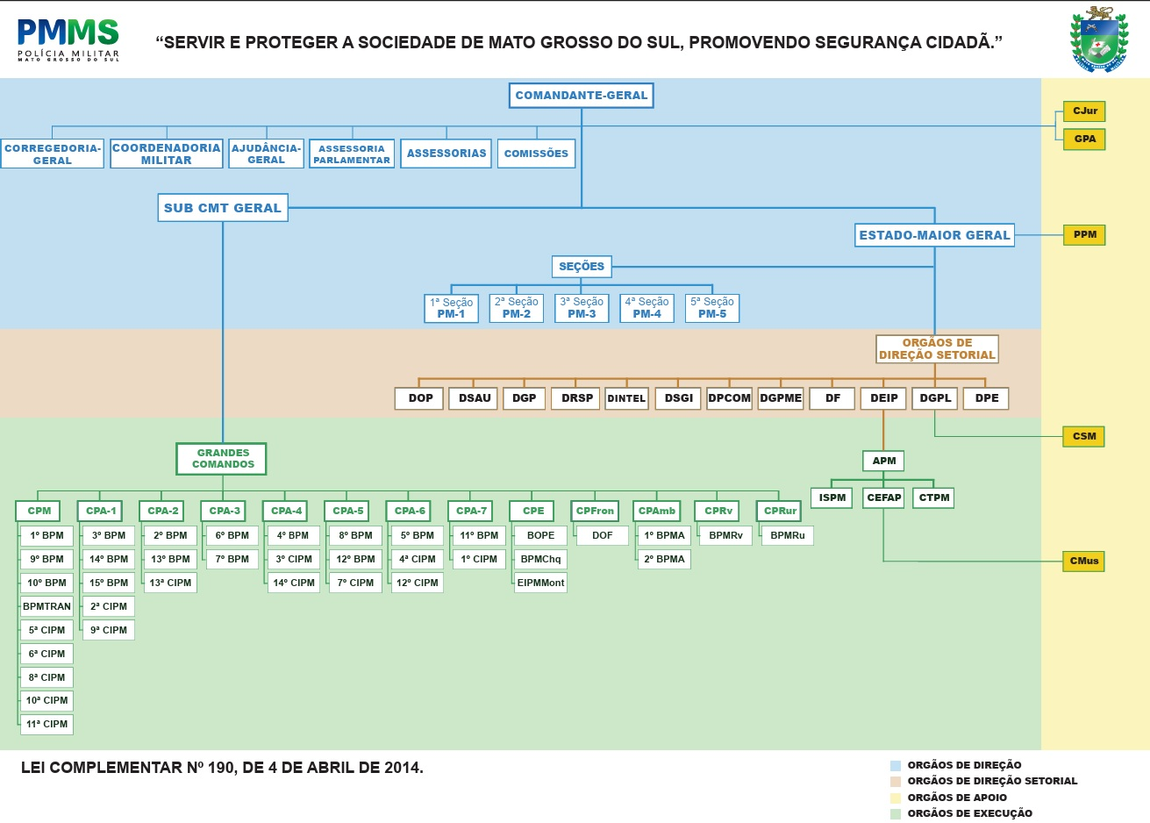
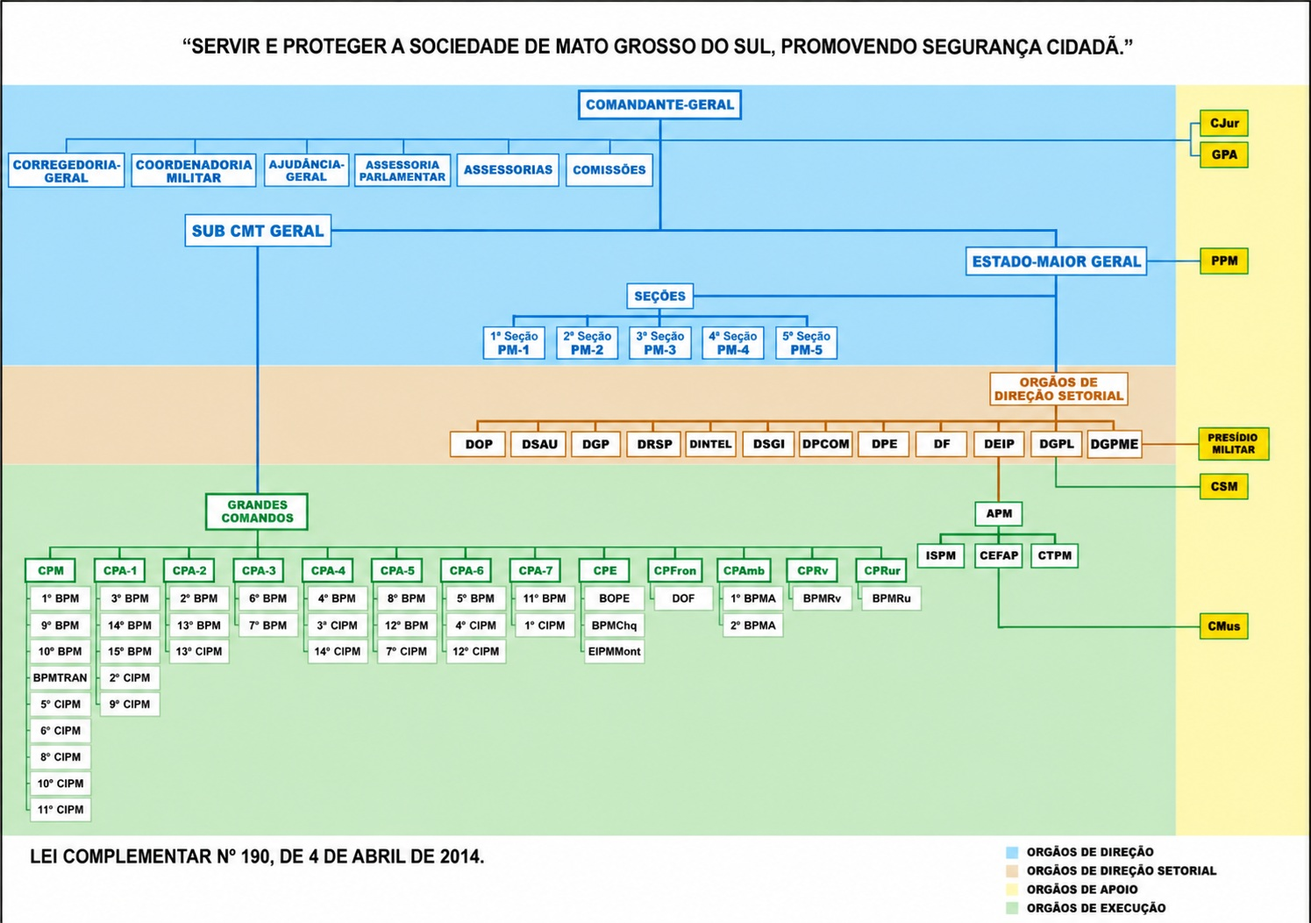
adicionado o presídio militar

diff --git a/index.html b/index.html
@@ -47,97 +47,98 @@
 </head>
 <body>
     <div id="topo" class="organograma">
-        <img src="organograma.jpg" alt="Organograma da PMMS" width="1311" height="938">
-        <svg viewBox="0 0 1311 938" preserveAspectRatio="none" role="group" aria-label="Áreas clicáveis do organograma">
-            <a href="#titulo-2-cap-1" aria-label="COMANDANTE-GERAL"><rect x="580" y="95" width="165" height="28" rx="3"><title>COMANDANTE-GERAL</title></rect></a>
-            <a href="#titulo-2-cap-1-sec-8" aria-label="CJur"><rect x="1211" y="114" width="50" height="26" rx="3"><title>CJur</title></rect></a>
-            <a href="#titulo-2-cap-22" aria-label="GPA"><rect x="1211" y="146" width="50" height="26" rx="3"><title>GPA</title></rect></a>
-            <a href="#titulo-2-cap-4" aria-label="CORREGEDORIA-GERAL"><rect x="0" y="157" width="119" height="36" rx="3"><title>CORREGEDORIA-GERAL</title></rect></a>
-            <a href="#titulo-2-cap-5" aria-label="AJUDÂNCIA-GERAL"><rect x="260" y="157" width="87" height="36" rx="3"><title>AJUDÂNCIA-GERAL</title></rect></a>
-            <a href="#titulo-2-cap-6" aria-label="COORDENADORIA MILITAR"><rect x="125" y="158" width="130" height="35" rx="3"><title>COORDENADORIA MILITAR</title></rect></a>
-            <a href="#titulo-2-cap-1-sec-9" aria-label="ASSESSORIA PARLAMENTAR"><rect x="352" y="158" width="99" height="34" rx="3"><title>ASSESSORIA PARLAMENTAR</title></rect></a>
-            <a href="#titulo-2-cap-1-sec-9" aria-label="ASSESSORIAS"><rect x="456" y="158" width="105" height="34" rx="3"><title>ASSESSORIAS</title></rect></a>
-            <a href="#titulo-2-cap-1" aria-label="COMISSÕES"><rect x="566" y="158" width="91" height="34" rx="3"><title>COMISSÕES</title></rect></a>
-            <a href="#titulo-2-cap-2" aria-label="SUB CMT GERAL"><rect x="179" y="220" width="150" height="33" rx="3"><title>SUB CMT GERAL</title></rect></a>
-            <a href="#titulo-2-cap-3" aria-label="ESTADO-MAIOR GERAL"><rect x="974" y="254" width="184" height="28" rx="3"><title>ESTADO-MAIOR GERAL</title></rect></a>
-            <a href="#titulo-2-cap-18-sec-7" aria-label="PPM"><rect x="1211" y="255" width="50" height="26" rx="3"><title>PPM</title></rect></a>
-            <a href="#titulo-2-cap-3-sec-7" aria-label="SEÇÕES"><rect x="628" y="291" width="70" height="26" rx="3"><title>SEÇÕES</title></rect></a>
-            <a href="#titulo-2-cap-3-sec-7-sub-2" aria-label="2ª Seção PM-2"><rect x="557" y="334" width="64" height="35" rx="3"><title>2ª Seção PM-2</title></rect></a>
-            <a href="#titulo-2-cap-3-sec-7-sub-3" aria-label="3ª Seção PM-3"><rect x="632" y="334" width="63" height="35" rx="3"><title>3ª Seção PM-3</title></rect></a>
-            <a href="#titulo-2-cap-3-sec-7-sub-4" aria-label="4ª Seção PM-4"><rect x="706" y="334" width="63" height="35" rx="3"><title>4ª Seção PM-4</title></rect></a>
-            <a href="#titulo-2-cap-3-sec-7-sub-5" aria-label="5ª Seção PM-5"><rect x="780" y="334" width="64" height="35" rx="3"><title>5ª Seção PM-5</title></rect></a>
-            <a href="#titulo-2-cap-3-sec-7-sub-1" aria-label="1ª Seção PM-1"><rect x="483" y="335" width="63" height="34" rx="3"><title>1ª Seção PM-1</title></rect></a>
-            <a href="#titulo-2-cap-7" aria-label="ÓRGÃOS DE DIREÇÃO SETORIAL"><rect x="998" y="381" width="141" height="34" rx="3"><title>ÓRGÃOS DE DIREÇÃO SETORIAL</title></rect></a>
-            <a href="#titulo-2-cap-17" aria-label="DOP"><rect x="449" y="441" width="57" height="27" rx="3"><title>DOP</title></rect></a>
-            <a href="#titulo-2-cap-18" aria-label="DSAU"><rect x="511" y="441" width="57" height="27" rx="3"><title>DSAU</title></rect></a>
-            <a href="#titulo-2-cap-8" aria-label="DGP"><rect x="573" y="441" width="50" height="27" rx="3"><title>DGP</title></rect></a>
-            <a href="#titulo-2-cap-14" aria-label="DRSP"><rect x="627" y="441" width="58" height="27" rx="3"><title>DRSP</title></rect></a>
-            <a href="#titulo-2-cap-11" aria-label="DINTEL"><rect x="689" y="441" width="51" height="27" rx="3"><title>DINTEL</title></rect></a>
-            <a href="#titulo-2-cap-12" aria-label="DSGI"><rect x="746" y="441" width="54" height="27" rx="3"><title>DSGI</title></rect></a>
-            <a href="#titulo-2-cap-13" aria-label="DPCOM"><rect x="805" y="441" width="53" height="27" rx="3"><title>DPCOM</title></rect></a>
-            <a href="#titulo-2-cap-16" aria-label="DGPME"><rect x="863" y="441" width="54" height="27" rx="3"><title>DGPME</title></rect></a>
-            <a href="#titulo-2-cap-7" aria-label="DF"><rect x="922" y="441" width="53" height="27" rx="3"><title>DF</title></rect></a>
-            <a href="#titulo-2-cap-10" aria-label="DEIP"><rect x="980" y="441" width="54" height="27" rx="3"><title>DEIP</title></rect></a>
-            <a href="#titulo-2-cap-9" aria-label="DGPL"><rect x="1039" y="441" width="53" height="27" rx="3"><title>DGPL</title></rect></a>
-            <a href="#titulo-2-cap-15" aria-label="DPE"><rect x="1097" y="441" width="54" height="27" rx="3"><title>DPE</title></rect></a>
-            <a href="#titulo-2-cap-9-sec-9" aria-label="CSM"><rect x="1211" y="485" width="49" height="25" rx="3"><title>CSM</title></rect></a>
-            <a href="#titulo-2-cap-19" aria-label="GRANDES COMANDOS"><rect x="201" y="505" width="103" height="36" rx="3"><title>GRANDES COMANDOS</title></rect></a>
-            <a href="#titulo-2-cap-10-sec-9" aria-label="APM"><rect x="983" y="513" width="49" height="25" rx="3"><title>APM</title></rect></a>
-            <a href="#titulo-2-cap-10-sec-10" aria-label="ISPM"><rect x="923" y="555" width="49" height="25" rx="3"><title>ISPM</title></rect></a>
-            <a href="#titulo-2-cap-10-sec-11" aria-label="CEFAP"><rect x="983" y="555" width="49" height="25" rx="3"><title>CEFAP</title></rect></a>
-            <a href="#titulo-2-cap-10-sec-12" aria-label="CTPM"><rect x="1040" y="555" width="49" height="25" rx="3"><title>CTPM</title></rect></a>
-            <a href="#titulo-2-cap-19-sec-2" aria-label="CPM"><rect x="17" y="570" width="52" height="25" rx="3"><title>CPM</title></rect></a>
-            <a href="#titulo-2-cap-19-sec-3" aria-label="CPA-1"><rect x="88" y="570" width="51" height="25" rx="3"><title>CPA-1</title></rect></a>
-            <a href="#titulo-2-cap-19-sec-3" aria-label="CPA-2"><rect x="158" y="570" width="52" height="25" rx="3"><title>CPA-2</title></rect></a>
-            <a href="#titulo-2-cap-19-sec-3" aria-label="CPA-3"><rect x="228" y="570" width="52" height="25" rx="3"><title>CPA-3</title></rect></a>
-            <a href="#titulo-2-cap-19-sec-3" aria-label="CPA-4"><rect x="299" y="570" width="51" height="25" rx="3"><title>CPA-4</title></rect></a>
-            <a href="#titulo-2-cap-19-sec-3" aria-label="CPA-5"><rect x="369" y="570" width="52" height="25" rx="3"><title>CPA-5</title></rect></a>
-            <a href="#titulo-2-cap-19-sec-3" aria-label="CPA-6"><rect x="440" y="570" width="51" height="25" rx="3"><title>CPA-6</title></rect></a>
-            <a href="#titulo-2-cap-19-sec-3" aria-label="CPA-7"><rect x="510" y="570" width="52" height="25" rx="3"><title>CPA-7</title></rect></a>
-            <a href="#titulo-2-cap-19-sec-4" aria-label="CPE"><rect x="580" y="570" width="52" height="25" rx="3"><title>CPE</title></rect></a>
-            <a href="#titulo-2-cap-19-sec-14" aria-label="CPFron"><rect x="651" y="570" width="55" height="25" rx="3"><title>CPFron</title></rect></a>
-            <a href="#titulo-2-cap-19-sec-5" aria-label="CPAmb"><rect x="721" y="570" width="55" height="25" rx="3"><title>CPAmb</title></rect></a>
-            <a href="#titulo-2-cap-19-sec-6" aria-label="CPRv"><rect x="791" y="570" width="52" height="25" rx="3"><title>CPRv</title></rect></a>
-            <a href="#titulo-2-cap-19-sec-7" aria-label="CPRur"><rect x="862" y="570" width="51" height="25" rx="3"><title>CPRur</title></rect></a>
-            <a href="#titulo-2-cap-20" aria-label="1° BPM"><rect x="22" y="598" width="63" height="26" rx="3"><title>1° BPM</title></rect></a>
-            <a href="#titulo-2-cap-20" aria-label="3° BPM"><rect x="93" y="598" width="62" height="25" rx="3"><title>3° BPM</title></rect></a>
-            <a href="#titulo-2-cap-20" aria-label="2° BPM"><rect x="163" y="598" width="63" height="25" rx="3"><title>2° BPM</title></rect></a>
-            <a href="#titulo-2-cap-20" aria-label="6° BPM"><rect x="234" y="598" width="62" height="25" rx="3"><title>6° BPM</title></rect></a>
-            <a href="#titulo-2-cap-20" aria-label="4° BPM"><rect x="304" y="598" width="62" height="25" rx="3"><title>4° BPM</title></rect></a>
-            <a href="#titulo-2-cap-20" aria-label="8° BPM"><rect x="374" y="598" width="63" height="25" rx="3"><title>8° BPM</title></rect></a>
-            <a href="#titulo-2-cap-20" aria-label="5° BPM"><rect x="445" y="598" width="62" height="25" rx="3"><title>5° BPM</title></rect></a>
-            <a href="#titulo-2-cap-20" aria-label="11° BPM"><rect x="515" y="598" width="63" height="25" rx="3"><title>11° BPM</title></rect></a>
-            <a href="#titulo-2-cap-20" aria-label="BOPE"><rect x="585" y="598" width="63" height="25" rx="3"><title>BOPE</title></rect></a>
-            <a href="#titulo-2-cap-19-sec-14" aria-label="DOF"><rect x="656" y="598" width="62" height="25" rx="3"><title>DOF</title></rect></a>
-            <a href="#titulo-2-cap-20" aria-label="1° BPMA"><rect x="726" y="598" width="63" height="25" rx="3"><title>1° BPMA</title></rect></a>
-            <a href="#titulo-2-cap-20" aria-label="BPMRv"><rect x="796" y="598" width="63" height="25" rx="3"><title>BPMRv</title></rect></a>
-            <a href="#titulo-2-cap-20" aria-label="BPMRu"><rect x="867" y="598" width="62" height="25" rx="3"><title>BPMRu</title></rect></a>
-            <a href="#titulo-2-cap-20" aria-label="9° BPM"><rect x="22" y="625" width="63" height="25" rx="3"><title>9° BPM</title></rect></a>
-            <a href="#titulo-2-cap-20" aria-label="14° BPM"><rect x="93" y="625" width="62" height="25" rx="3"><title>14° BPM</title></rect></a>
-            <a href="#titulo-2-cap-20" aria-label="13° BPM"><rect x="163" y="625" width="63" height="25" rx="3"><title>13° BPM</title></rect></a>
-            <a href="#titulo-2-cap-20" aria-label="7° BPM"><rect x="234" y="625" width="62" height="25" rx="3"><title>7° BPM</title></rect></a>
-            <a href="#titulo-2-cap-21" aria-label="3° CIPM"><rect x="304" y="625" width="62" height="25" rx="3"><title>3° CIPM</title></rect></a>
-            <a href="#titulo-2-cap-20" aria-label="12° BPM"><rect x="374" y="625" width="63" height="25" rx="3"><title>12° BPM</title></rect></a>
-            <a href="#titulo-2-cap-21" aria-label="4° CIPM"><rect x="445" y="625" width="62" height="25" rx="3"><title>4° CIPM</title></rect></a>
-            <a href="#titulo-2-cap-21" aria-label="1° CIPM"><rect x="515" y="625" width="63" height="25" rx="3"><title>1° CIPM</title></rect></a>
-            <a href="#titulo-2-cap-20" aria-label="BPMChq"><rect x="585" y="625" width="63" height="25" rx="3"><title>BPMChq</title></rect></a>
-            <a href="#titulo-2-cap-20" aria-label="2° BPMA"><rect x="726" y="625" width="63" height="25" rx="3"><title>2° BPMA</title></rect></a>
-            <a href="#titulo-2-cap-10-sec-11-sub-11" aria-label="CMus"><rect x="1211" y="627" width="49" height="26" rx="3"><title>CMus</title></rect></a>
-            <a href="#titulo-2-cap-20" aria-label="15° BPM"><rect x="93" y="651" width="62" height="26" rx="3"><title>15° BPM</title></rect></a>
-            <a href="#titulo-2-cap-21" aria-label="13° CIPM"><rect x="163" y="651" width="63" height="26" rx="3"><title>13° CIPM</title></rect></a>
-            <a href="#titulo-2-cap-21" aria-label="14° CIPM"><rect x="304" y="651" width="62" height="26" rx="3"><title>14° CIPM</title></rect></a>
-            <a href="#titulo-2-cap-21" aria-label="7° CIPM"><rect x="374" y="651" width="63" height="26" rx="3"><title>7° CIPM</title></rect></a>
-            <a href="#titulo-2-cap-21" aria-label="12° CIPM"><rect x="445" y="651" width="62" height="26" rx="3"><title>12° CIPM</title></rect></a>
-            <a href="#titulo-2-cap-21" aria-label="EIPMMont"><rect x="585" y="651" width="63" height="26" rx="3"><title>EIPMMont</title></rect></a>
-            <a href="#titulo-2-cap-20" aria-label="10° BPM"><rect x="22" y="652" width="63" height="25" rx="3"><title>10° BPM</title></rect></a>
-            <a href="#titulo-2-cap-20" aria-label="BPMTRAN"><rect x="22" y="678" width="63" height="26" rx="3"><title>BPMTRAN</title></rect></a>
-            <a href="#titulo-2-cap-21" aria-label="2° CIPM"><rect x="93" y="678" width="62" height="26" rx="3"><title>2° CIPM</title></rect></a>
-            <a href="#titulo-2-cap-21" aria-label="5° CIPM"><rect x="22" y="705" width="63" height="26" rx="3"><title>5° CIPM</title></rect></a>
-            <a href="#titulo-2-cap-21" aria-label="9° CIPM"><rect x="93" y="705" width="62" height="26" rx="3"><title>9° CIPM</title></rect></a>
-            <a href="#titulo-2-cap-21" aria-label="6° CIPM"><rect x="22" y="732" width="63" height="26" rx="3"><title>6° CIPM</title></rect></a>
-            <a href="#titulo-2-cap-21" aria-label="8° CIPM"><rect x="22" y="759" width="63" height="26" rx="3"><title>8° CIPM</title></rect></a>
-            <a href="#titulo-2-cap-21" aria-label="10° CIPM"><rect x="22" y="786" width="63" height="26" rx="3"><title>10° CIPM</title></rect></a>
-            <a href="#titulo-2-cap-21" aria-label="11° CIPM"><rect x="22" y="813" width="63" height="26" rx="3"><title>11° CIPM</title></rect></a>
+        <img src="organograma.jpg" alt="Organograma da PMMS" width="1495" height="1052">
+        <svg viewBox="0 0 1495 1052" preserveAspectRatio="none" role="group" aria-label="Áreas clicáveis do organograma">
+                        <a href="#titulo-2-cap-1" aria-label="COMANDANTE-GERAL"><rect x="661" y="104" width="183" height="31" rx="3"><title>COMANDANTE-GERAL</title></rect></a>
+            <a href="#titulo-2-cap-1-sec-8" aria-label="CJur"><rect x="1368" y="125" width="56" height="30" rx="3"><title>CJur</title></rect></a>
+            <a href="#titulo-2-cap-22" aria-label="GPA"><rect x="1368" y="162" width="56" height="30" rx="3"><title>GPA</title></rect></a>
+            <a href="#titulo-2-cap-4" aria-label="CORREGEDORIA-GERAL"><rect x="9" y="174" width="133" height="40" rx="3"><title>CORREGEDORIA-GERAL</title></rect></a>
+            <a href="#titulo-2-cap-5" aria-label="AJUDÂNCIA-GERAL"><rect x="301" y="175" width="97" height="38" rx="3"><title>AJUDÂNCIA-GERAL</title></rect></a>
+            <a href="#titulo-2-cap-6" aria-label="COORDENADORIA MILITAR"><rect x="150" y="175" width="142" height="38" rx="3"><title>COORDENADORIA MILITAR</title></rect></a>
+            <a href="#titulo-2-cap-1-sec-9" aria-label="ASSESSORIA PARLAMENTAR"><rect x="404" y="174" width="111" height="38" rx="3"><title>ASSESSORIA PARLAMENTAR</title></rect></a>
+            <a href="#titulo-2-cap-1-sec-9" aria-label="ASSESSORIAS"><rect x="521" y="175" width="117" height="38" rx="3"><title>ASSESSORIAS</title></rect></a>
+            <a href="#titulo-2-cap-1" aria-label="COMISSÕES"><rect x="645" y="175" width="100" height="38" rx="3"><title>COMISSÕES</title></rect></a>
+            <a href="#titulo-2-cap-2" aria-label="SUB CMT GERAL"><rect x="211" y="244" width="167" height="37" rx="3"><title>SUB CMT GERAL</title></rect></a>
+            <a href="#titulo-2-cap-3" aria-label="ESTADO-MAIOR GERAL"><rect x="1102" y="282" width="206" height="31" rx="3"><title>ESTADO-MAIOR GERAL</title></rect></a>
+            <a href="#titulo-2-cap-18-sec-7" aria-label="PPM"><rect x="1369" y="283" width="54" height="29" rx="3"><title>PPM</title></rect></a>
+            <a href="#titulo-2-cap-3-sec-7" aria-label="SEÇÕES"><rect x="715" y="323" width="76" height="29" rx="3"><title>SEÇÕES</title></rect></a>
+            <a href="#titulo-2-cap-3-sec-7-sub-2" aria-label="2ª Seção PM-2"><rect x="634" y="372" width="71" height="37" rx="3"><title>2ª Seção PM-2</title></rect></a>
+            <a href="#titulo-2-cap-3-sec-7-sub-3" aria-label="3ª Seção PM-3"><rect x="718" y="372" width="71" height="37" rx="3"><title>3ª Seção PM-3</title></rect></a>
+            <a href="#titulo-2-cap-3-sec-7-sub-4" aria-label="4ª Seção PM-4"><rect x="801" y="372" width="71" height="37" rx="3"><title>4ª Seção PM-4</title></rect></a>
+            <a href="#titulo-2-cap-3-sec-7-sub-5" aria-label="5ª Seção PM-5"><rect x="885" y="372" width="70" height="37" rx="3"><title>5ª Seção PM-5</title></rect></a>
+            <a href="#titulo-2-cap-3-sec-7-sub-1" aria-label="1ª Seção PM-1"><rect x="551" y="372" width="71" height="37" rx="3"><title>1ª Seção PM-1</title></rect></a>
+            <a href="#titulo-2-cap-7" aria-label="ÓRGÃOS DE DIREÇÃO SETORIAL"><rect x="1129" y="424" width="158" height="38" rx="3"><title>ÓRGÃOS DE DIREÇÃO SETORIAL</title></rect></a>
+            <a href="#titulo-2-cap-17" aria-label="DOP"><rect x="513" y="492" width="63" height="29" rx="3"><title>DOP</title></rect></a>
+            <a href="#titulo-2-cap-18" aria-label="DSAU"><rect x="583" y="492" width="63" height="29" rx="3"><title>DSAU</title></rect></a>
+            <a href="#titulo-2-cap-8" aria-label="DGP"><rect x="652" y="492" width="56" height="29" rx="3"><title>DGP</title></rect></a>
+            <a href="#titulo-2-cap-14" aria-label="DRSP"><rect x="715" y="492" width="61" height="29" rx="3"><title>DRSP</title></rect></a>
+            <a href="#titulo-2-cap-11" aria-label="DINTEL"><rect x="782" y="492" width="57" height="29" rx="3"><title>DINTEL</title></rect></a>
+            <a href="#titulo-2-cap-12" aria-label="DSGI"><rect x="847" y="492" width="59" height="29" rx="3"><title>DSGI</title></rect></a>
+            <a href="#titulo-2-cap-13" aria-label="DPCOM"><rect x="912" y="492" width="60" height="29" rx="3"><title>DPCOM</title></rect></a>
+            <a href="#titulo-2-cap-15" aria-label="DPE"><rect x="979" y="492" width="58" height="29" rx="3"><title>DPE</title></rect></a>
+            <a href="#titulo-2-cap-7" aria-label="DF"><rect x="1045" y="492" width="58" height="29" rx="3"><title>DF</title></rect></a>
+            <a href="#titulo-2-cap-10" aria-label="DEIP"><rect x="1111" y="492" width="57" height="29" rx="3"><title>DEIP</title></rect></a>
+            <a href="#titulo-2-cap-9" aria-label="DGPL"><rect x="1176" y="492" width="58" height="29" rx="3"><title>DGPL</title></rect></a>
+            <a href="#titulo-2-cap-16" aria-label="DGPME"><rect x="1240" y="490" width="63" height="32" rx="3"><title>DGPME</title></rect></a>
+            <a href="#titulo-2-cap-9-sec-9" aria-label="CSM"><rect x="1368" y="540" width="56" height="29" rx="3"><title>CSM</title></rect></a>
+            <a href="#titulo-2-cap-19" aria-label="GRANDES COMANDOS"><rect x="235" y="563" width="115" height="40" rx="3"><title>GRANDES COMANDOS</title></rect></a>
+            <a href="#titulo-2-cap-10-sec-9" aria-label="APM"><rect x="1112" y="572" width="54" height="27" rx="3"><title>APM</title></rect></a>
+            <a href="#titulo-2-cap-10-sec-10" aria-label="ISPM"><rect x="1046" y="620" width="54" height="27" rx="3"><title>ISPM</title></rect></a>
+            <a href="#titulo-2-cap-10-sec-11" aria-label="CEFAP"><rect x="1112" y="620" width="54" height="27" rx="3"><title>CEFAP</title></rect></a>
+            <a href="#titulo-2-cap-10-sec-12" aria-label="CTPM"><rect x="1176" y="620" width="54" height="27" rx="3"><title>CTPM</title></rect></a>
+            <a href="#titulo-2-cap-19-sec-2" aria-label="CPM"><rect x="29" y="637" width="56" height="26" rx="3"><title>CPM</title></rect></a>
+            <a href="#titulo-2-cap-19-sec-3" aria-label="CPA-1"><rect x="108" y="637" width="57" height="26" rx="3"><title>CPA-1</title></rect></a>
+            <a href="#titulo-2-cap-19-sec-3" aria-label="CPA-2"><rect x="187" y="637" width="57" height="26" rx="3"><title>CPA-2</title></rect></a>
+            <a href="#titulo-2-cap-19-sec-3" aria-label="CPA-3"><rect x="267" y="637" width="56" height="26" rx="3"><title>CPA-3</title></rect></a>
+            <a href="#titulo-2-cap-19-sec-3" aria-label="CPA-4"><rect x="345" y="637" width="57" height="26" rx="3"><title>CPA-4</title></rect></a>
+            <a href="#titulo-2-cap-19-sec-3" aria-label="CPA-5"><rect x="424" y="637" width="57" height="26" rx="3"><title>CPA-5</title></rect></a>
+            <a href="#titulo-2-cap-19-sec-3" aria-label="CPA-6"><rect x="503" y="637" width="56" height="26" rx="3"><title>CPA-6</title></rect></a>
+            <a href="#titulo-2-cap-19-sec-3" aria-label="CPA-7"><rect x="582" y="637" width="56" height="26" rx="3"><title>CPA-7</title></rect></a>
+            <a href="#titulo-2-cap-19-sec-4" aria-label="CPE"><rect x="661" y="637" width="56" height="26" rx="3"><title>CPE</title></rect></a>
+            <a href="#titulo-2-cap-19-sec-14" aria-label="CPFron"><rect x="739" y="637" width="61" height="26" rx="3"><title>CPFron</title></rect></a>
+            <a href="#titulo-2-cap-19-sec-5" aria-label="CPAmb"><rect x="818" y="637" width="61" height="26" rx="3"><title>CPAmb</title></rect></a>
+            <a href="#titulo-2-cap-19-sec-6" aria-label="CPRv"><rect x="898" y="637" width="56" height="26" rx="3"><title>CPRv</title></rect></a>
+            <a href="#titulo-2-cap-19-sec-7" aria-label="CPRur"><rect x="976" y="637" width="57" height="26" rx="3"><title>CPRur</title></rect></a>
+            <a href="#titulo-2-cap-20" aria-label="1° BPM"><rect x="34" y="668" width="70" height="29" rx="3"><title>1° BPM</title></rect></a>
+            <a href="#titulo-2-cap-20" aria-label="3° BPM"><rect x="114" y="668" width="69" height="29" rx="3"><title>3° BPM</title></rect></a>
+            <a href="#titulo-2-cap-20" aria-label="2° BPM"><rect x="193" y="668" width="69" height="29" rx="3"><title>2° BPM</title></rect></a>
+            <a href="#titulo-2-cap-20" aria-label="6° BPM"><rect x="272" y="668" width="69" height="29" rx="3"><title>6° BPM</title></rect></a>
+            <a href="#titulo-2-cap-20" aria-label="4° BPM"><rect x="350" y="668" width="70" height="29" rx="3"><title>4° BPM</title></rect></a>
+            <a href="#titulo-2-cap-20" aria-label="8° BPM"><rect x="430" y="668" width="69" height="29" rx="3"><title>8° BPM</title></rect></a>
+            <a href="#titulo-2-cap-20" aria-label="5° BPM"><rect x="508" y="668" width="70" height="29" rx="3"><title>5° BPM</title></rect></a>
+            <a href="#titulo-2-cap-20" aria-label="11° BPM"><rect x="587" y="668" width="70" height="29" rx="3"><title>11° BPM</title></rect></a>
+            <a href="#titulo-2-cap-20" aria-label="BOPE"><rect x="666" y="668" width="70" height="29" rx="3"><title>BOPE</title></rect></a>
+            <a href="#titulo-2-cap-19-sec-14" aria-label="DOF"><rect x="746" y="668" width="68" height="29" rx="3"><title>DOF</title></rect></a>
+            <a href="#titulo-2-cap-20" aria-label="1° BPMA"><rect x="824" y="668" width="70" height="29" rx="3"><title>1° BPMA</title></rect></a>
+            <a href="#titulo-2-cap-20" aria-label="BPMRv"><rect x="903" y="668" width="69" height="29" rx="3"><title>BPMRv</title></rect></a>
+            <a href="#titulo-2-cap-20" aria-label="BPMRu"><rect x="982" y="668" width="69" height="29" rx="3"><title>BPMRu</title></rect></a>
+            <a href="#titulo-2-cap-20" aria-label="9° BPM"><rect x="34" y="698" width="70" height="29" rx="3"><title>9° BPM</title></rect></a>
+            <a href="#titulo-2-cap-20" aria-label="14° BPM"><rect x="114" y="698" width="69" height="29" rx="3"><title>14° BPM</title></rect></a>
+            <a href="#titulo-2-cap-20" aria-label="13° BPM"><rect x="193" y="698" width="69" height="29" rx="3"><title>13° BPM</title></rect></a>
+            <a href="#titulo-2-cap-20" aria-label="7° BPM"><rect x="272" y="698" width="69" height="29" rx="3"><title>7° BPM</title></rect></a>
+            <a href="#titulo-2-cap-21" aria-label="3° CIPM"><rect x="350" y="698" width="70" height="29" rx="3"><title>3° CIPM</title></rect></a>
+            <a href="#titulo-2-cap-20" aria-label="12° BPM"><rect x="430" y="698" width="69" height="29" rx="3"><title>12° BPM</title></rect></a>
+            <a href="#titulo-2-cap-21" aria-label="4° CIPM"><rect x="508" y="698" width="70" height="29" rx="3"><title>4° CIPM</title></rect></a>
+            <a href="#titulo-2-cap-21" aria-label="1° CIPM"><rect x="587" y="698" width="70" height="29" rx="3"><title>1° CIPM</title></rect></a>
+            <a href="#titulo-2-cap-20" aria-label="BPMChq"><rect x="666" y="698" width="70" height="29" rx="3"><title>BPMChq</title></rect></a>
+            <a href="#titulo-2-cap-20" aria-label="2° BPMA"><rect x="824" y="698" width="70" height="29" rx="3"><title>2° BPMA</title></rect></a>
+            <a href="#titulo-2-cap-10-sec-11-sub-11" aria-label="CMus"><rect x="1368" y="699" width="55" height="30" rx="3"><title>CMus</title></rect></a>
+            <a href="#titulo-2-cap-20" aria-label="15° BPM"><rect x="114" y="728" width="69" height="29" rx="3"><title>15° BPM</title></rect></a>
+            <a href="#titulo-2-cap-21" aria-label="13° CIPM"><rect x="193" y="728" width="69" height="29" rx="3"><title>13° CIPM</title></rect></a>
+            <a href="#titulo-2-cap-21" aria-label="14° CIPM"><rect x="350" y="728" width="70" height="29" rx="3"><title>14° CIPM</title></rect></a>
+            <a href="#titulo-2-cap-21" aria-label="7° CIPM"><rect x="430" y="728" width="69" height="29" rx="3"><title>7° CIPM</title></rect></a>
+            <a href="#titulo-2-cap-21" aria-label="12° CIPM"><rect x="508" y="728" width="70" height="29" rx="3"><title>12° CIPM</title></rect></a>
+            <a href="#titulo-2-cap-21" aria-label="EIPMMont"><rect x="666" y="728" width="70" height="29" rx="3"><title>EIPMMont</title></rect></a>
+            <a href="#titulo-2-cap-20" aria-label="10° BPM"><rect x="33" y="728" width="71" height="29" rx="3"><title>10° BPM</title></rect></a>
+            <a href="#titulo-2-cap-20" aria-label="BPMTRAN"><rect x="33" y="758" width="71" height="29" rx="3"><title>BPMTRAN</title></rect></a>
+            <a href="#titulo-2-cap-21" aria-label="2° CIPM"><rect x="113" y="758" width="70" height="29" rx="3"><title>2° CIPM</title></rect></a>
+            <a href="#titulo-2-cap-21" aria-label="5° CIPM"><rect x="34" y="788" width="71" height="29" rx="3"><title>5° CIPM</title></rect></a>
+            <a href="#titulo-2-cap-21" aria-label="9° CIPM"><rect x="113" y="788" width="70" height="29" rx="3"><title>9° CIPM</title></rect></a>
+            <a href="#titulo-2-cap-21" aria-label="6° CIPM"><rect x="34" y="818" width="71" height="30" rx="3"><title>6° CIPM</title></rect></a>
+            <a href="#titulo-2-cap-21" aria-label="8° CIPM"><rect x="34" y="848" width="71" height="30" rx="3"><title>8° CIPM</title></rect></a>
+            <a href="#titulo-2-cap-21" aria-label="10° CIPM"><rect x="34" y="878" width="71" height="30" rx="3"><title>10° CIPM</title></rect></a>
+            <a href="#titulo-2-cap-21" aria-label="11° CIPM"><rect x="34" y="909" width="71" height="28" rx="3"><title>11° CIPM</title></rect></a>
+            <a href="#titulo-2-cap-16-sec-7" aria-label="PRESÍDIO MILITAR"><rect x="1367" y="487" width="81" height="38" rx="3"><title>PRESÍDIO MILITAR</title></rect></a>
         </svg>
     </div>
 
